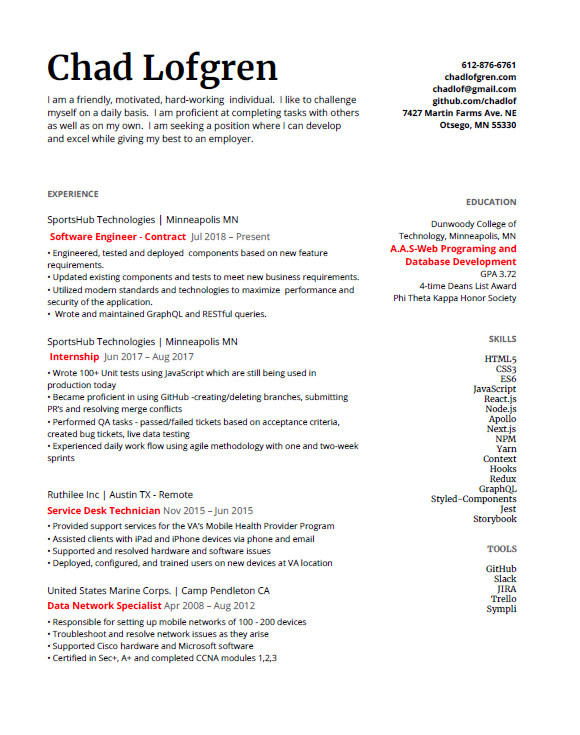
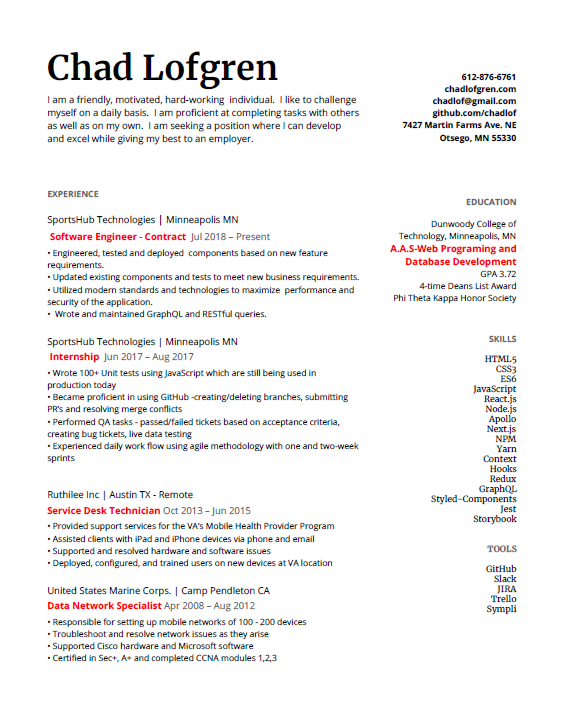
Corrected date for Ruthilee

diff --git a/index.html b/index.html
@@ -55,7 +55,7 @@
             <a class="nav-link js-scroll-trigger" href="#skills">Skills</a>
           </li>
           <li class="nav-item">
-            <a class="nav-link js-scroll-trigger" href="#resume">Full Resume</a>
+            <a class="nav-link js-scroll-trigger" href="#resume">Resume</a>
           </li>
           <!-- <li class="nav-item">
             <a class="nav-link js-scroll-trigger" href="#awards">Awards</a>
@@ -71,7 +71,7 @@
           <h1 class="mb-0">Chad
             <span class="text-primary">Lofgren</span>
           </h1>
-          <div class="subheading mb-5">7427 Martin Farms Ave. NE · Otsego, MN 5330 · (612) 876-6761 ·
+          <div class="subheading mb-5">7427 Martin Farms Ave. NE · Otsego, MN 55330 · (612) 876-6761 ·
             <a href="mailto:chadlof@gmail.com">chadlof@gmail.com</a>
           </div>
           <p class="mb-5">I am a friendly, hard-working, and dedicated individual who works well efficiently and effectively under high pressure situations. I like to challenge myself in different fields. I am proficient at completing tasks with others as well as on my own. I am seeking a position where I can develop and excel while giving my best to an employer. </p>
@@ -155,15 +155,15 @@
                 <p>•	Deployed, configured, and trained users on new devices at VA location</p>
             </div>
             <div class="resume-date text-md-right">
-              <span class="text-primary">Nov 2013 – Jun 2015</span>
+              <span class="text-primary">Oct 2013 – Jun 2015</span>
             </div>
           </div>
 
           <div class="resume-item d-flex flex-column flex-md-row mb-5">
             <div class="resume-content mr-auto">
               <h3 class="mb-0">Data Network Specialist	</h3>
-              <div class="subheading mb-3">Shout! Media Productions</div>
-                <p>•	Responsible for setting up mobile networks </p>
+              <div class="subheading mb-3">United States Marine Corps</div>
+                <p>•	Responsible for setting up mobile networks of 100 - 200- devices </p>
                 <p>•	Troubleshoot and resolved network issues as they arise</p>
                 <p>•	Supported Cisco hardware and Microsoft software</p>
                 <p>•	Certified in Sec+, A+ and completed CCNA modules 1,2,3</p>
@@ -317,7 +317,7 @@
 
        <section class="resume-section p-3 p-lg-5 d-flex flex-column" id="resume">
         <div class="my-auto">
-          <h2 class="mb-5">Full Resume</h2>
+          <h2 class="mb-5">Resume</h2>
           <a href="pdf/ChadLofgrenResume_v6.pdf" target="_blnk">
             <img class="img-thumbnail img-responsiv hover" src="img/resumePic.PNG" width="40%"  alt="Chad Lofgren's Resume" >
           </a>
